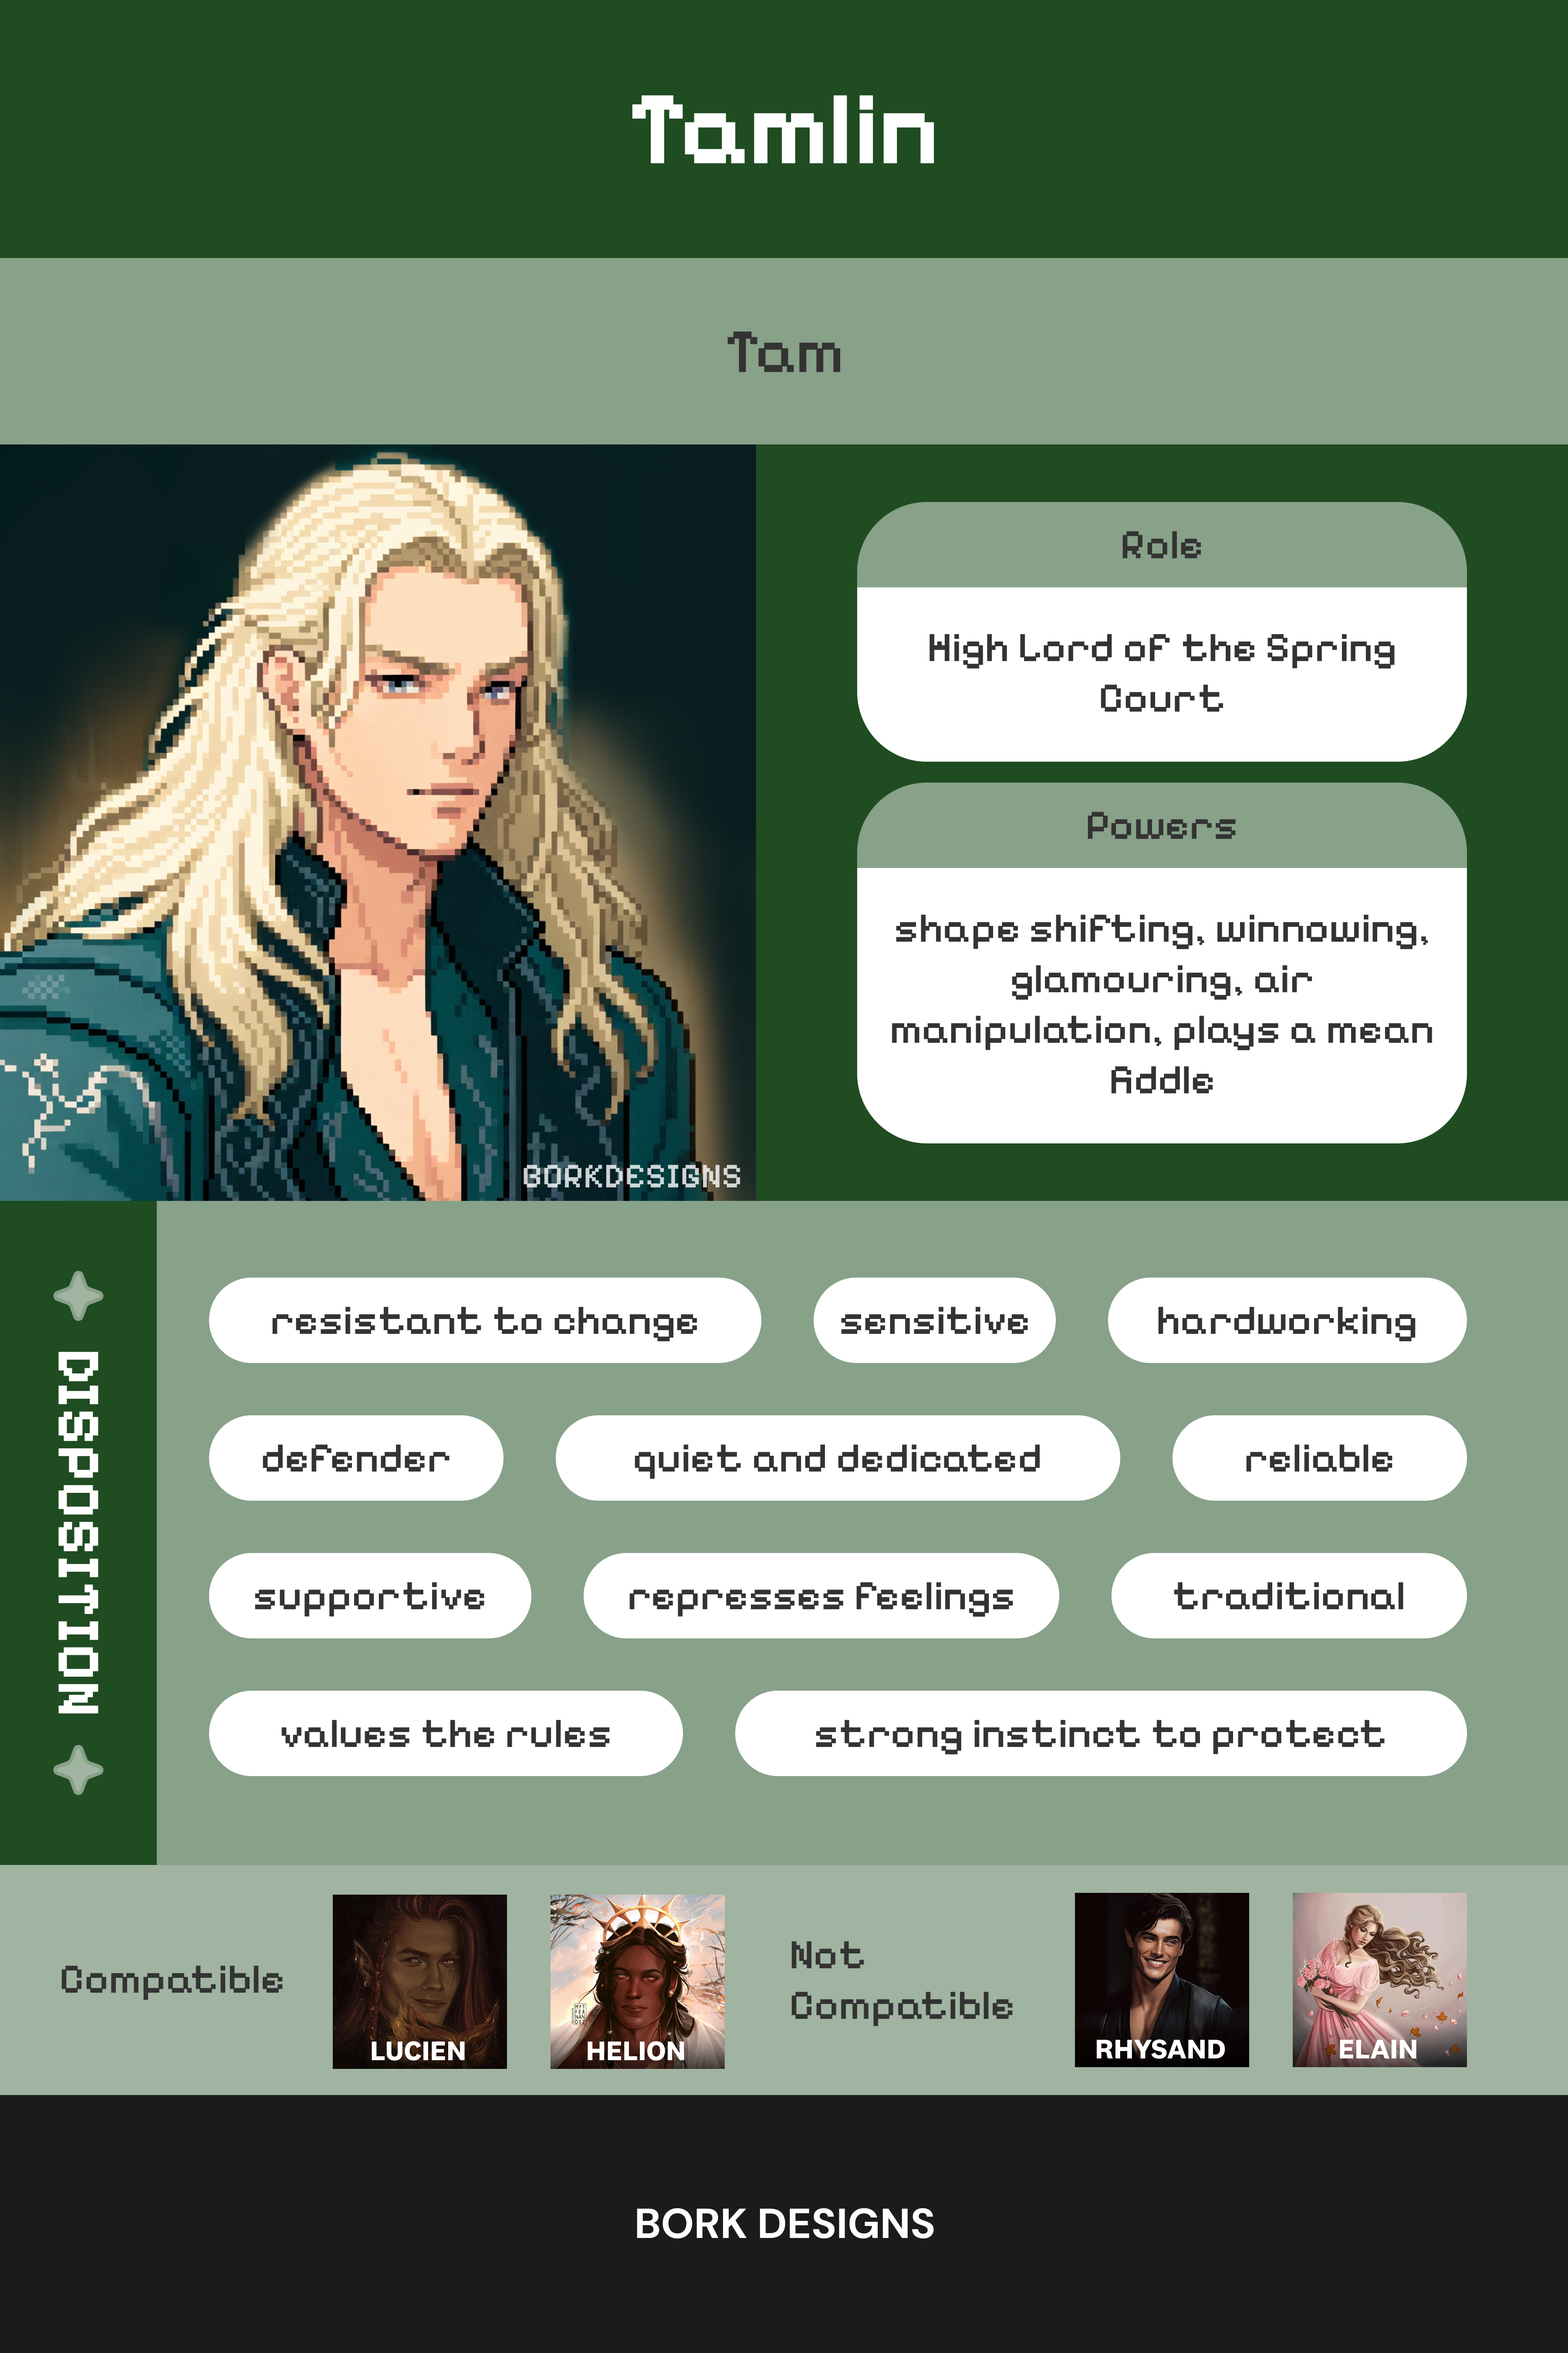
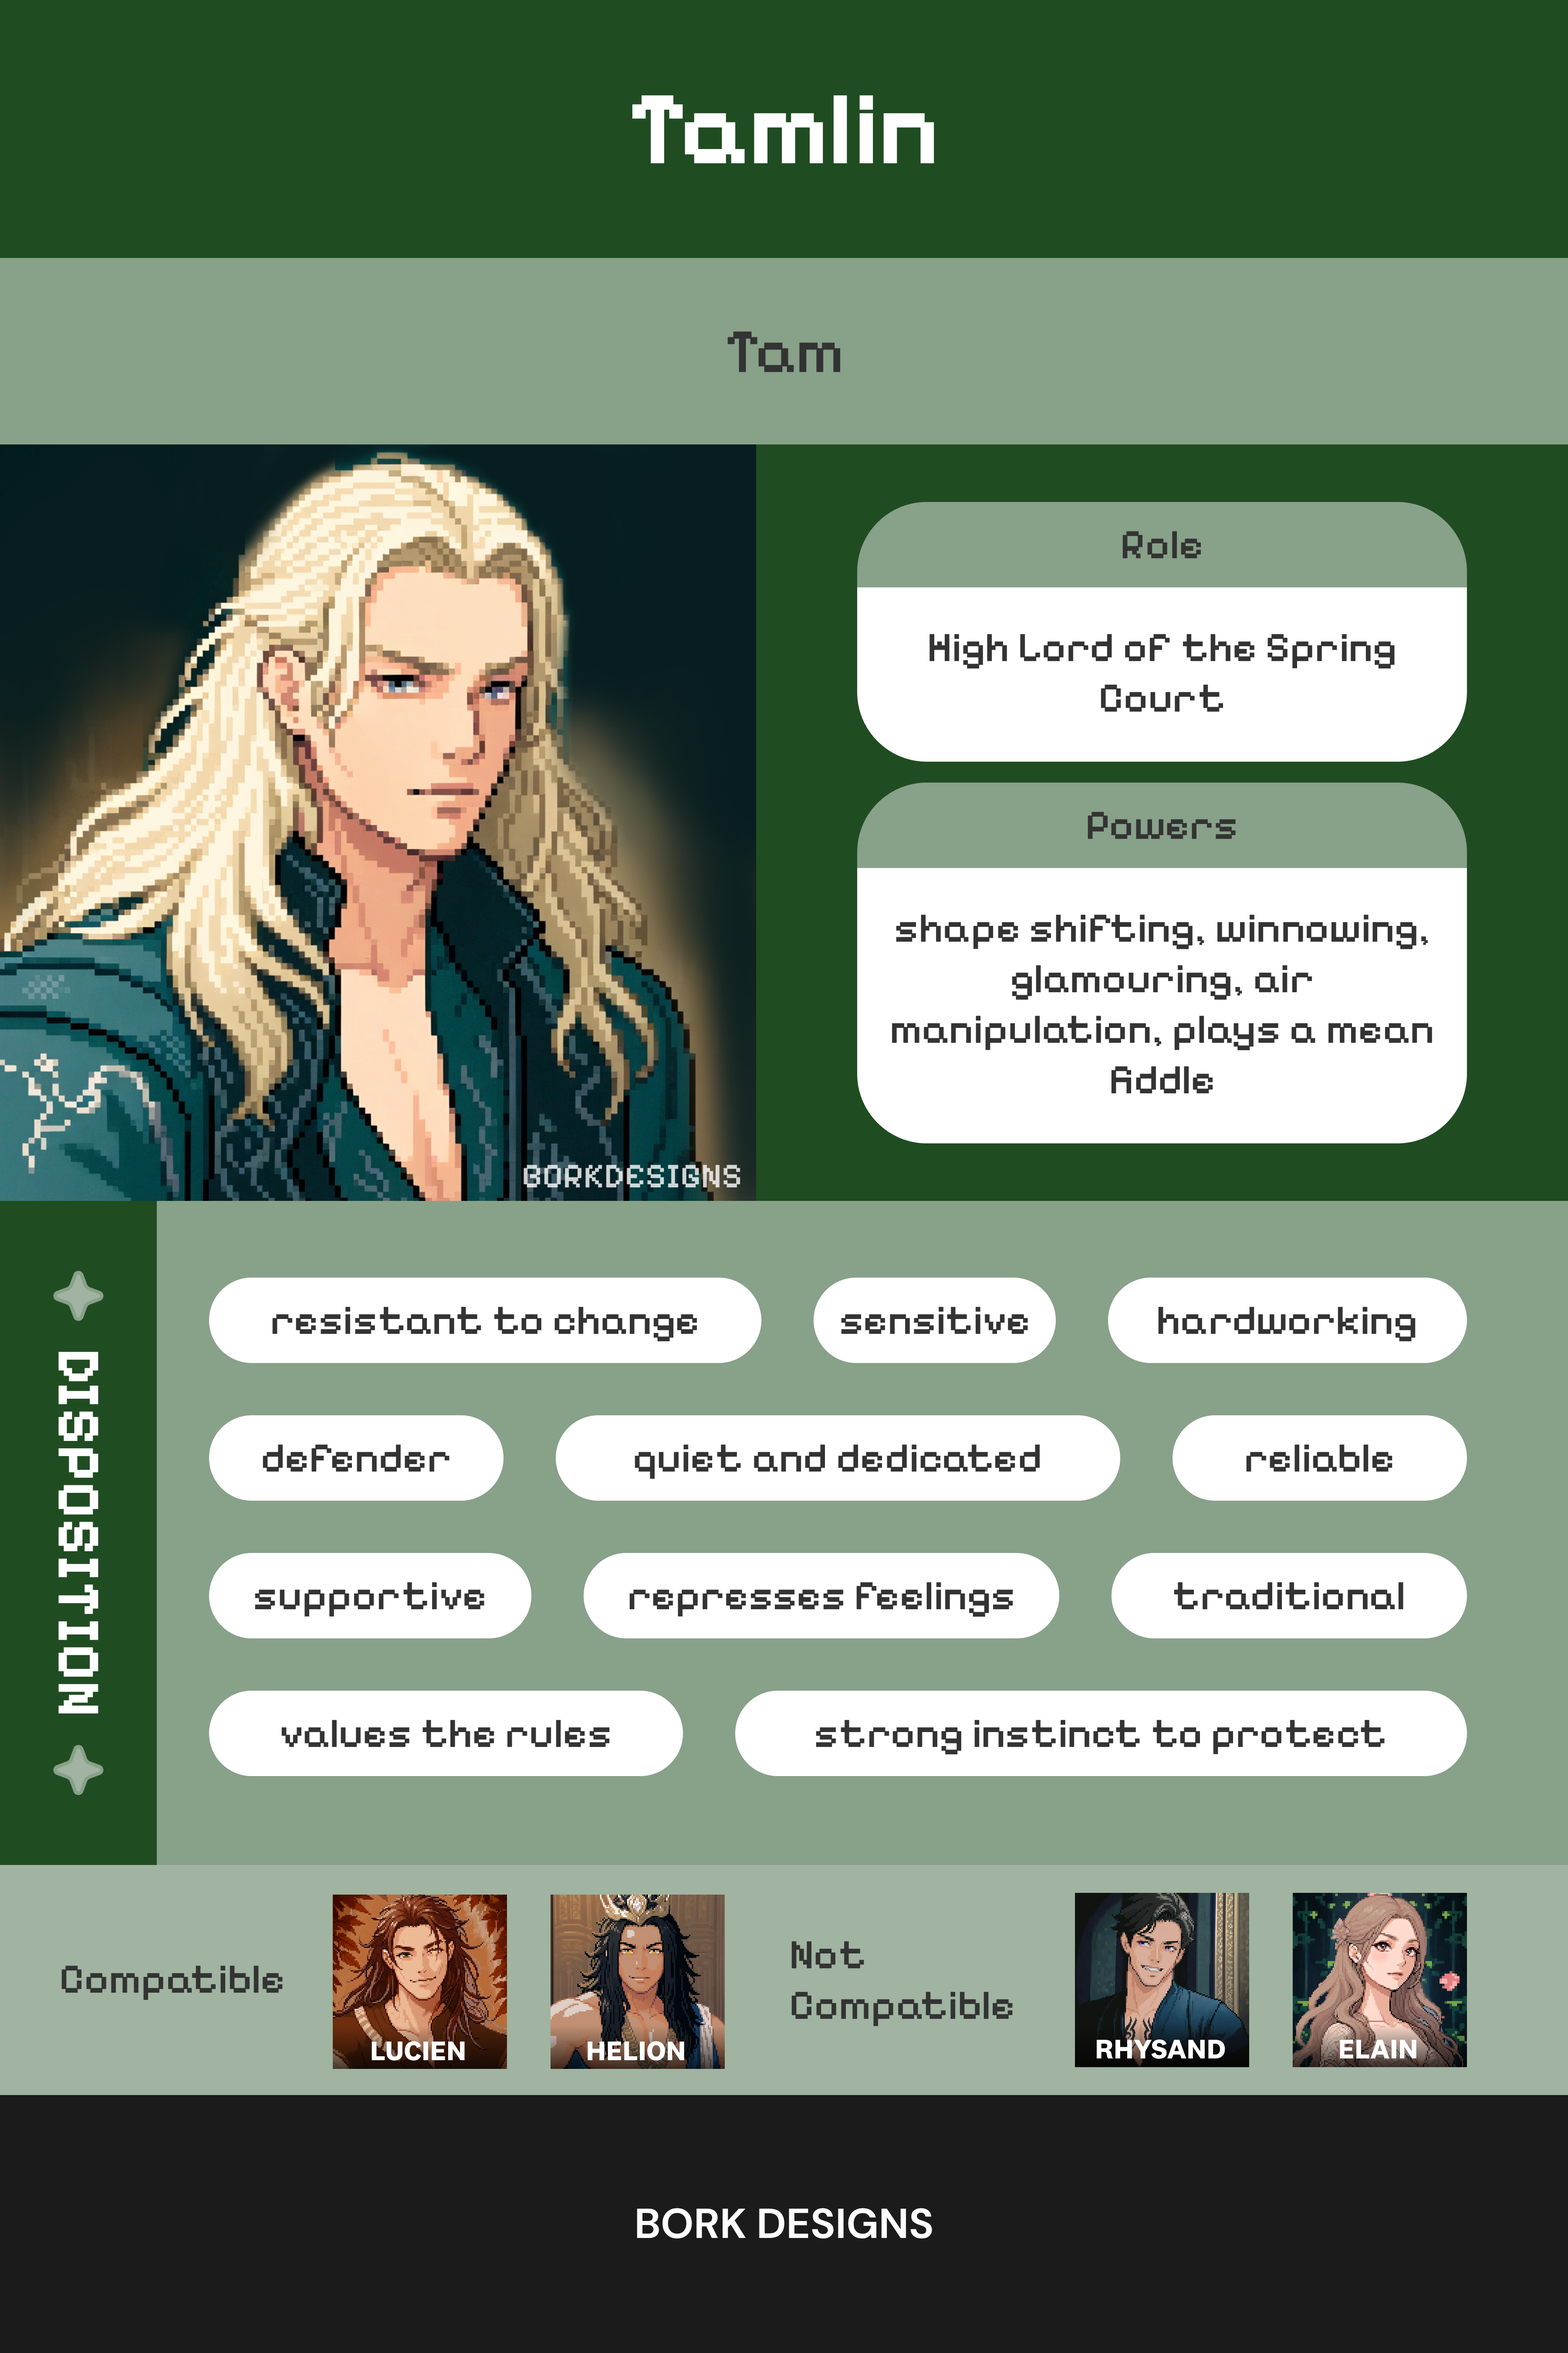
Photos and GA added

Changed region(s): [[0.1867, 0.7778, 0.4667, 0.9022], [0.6844, 0.7778, 0.9333, 0.9022], [0.56, 0.9333, 0.5911, 0.9644]]

diff --git a/index.html b/index.html
@@ -5,6 +5,16 @@
     <meta name="viewport" content="width=device-width, initial-scale=1.0">
     <title>ACOTAR</title>
     <link rel="stylesheet" href="./styles.css">
+
+    <!-- Google tag (gtag.js) -->
+    <script async src="https://www.googletagmanager.com/gtag/js?id=G-W08Y16LVC2"></script>
+    <script>
+        window.dataLayer = window.dataLayer || [];
+        function gtag(){dataLayer.push(arguments);}
+        gtag('js', new Date());
+
+        gtag('config', 'G-W08Y16LVC2');
+    </script>
 </head>
 <body>
     <div class="quiz-container">
